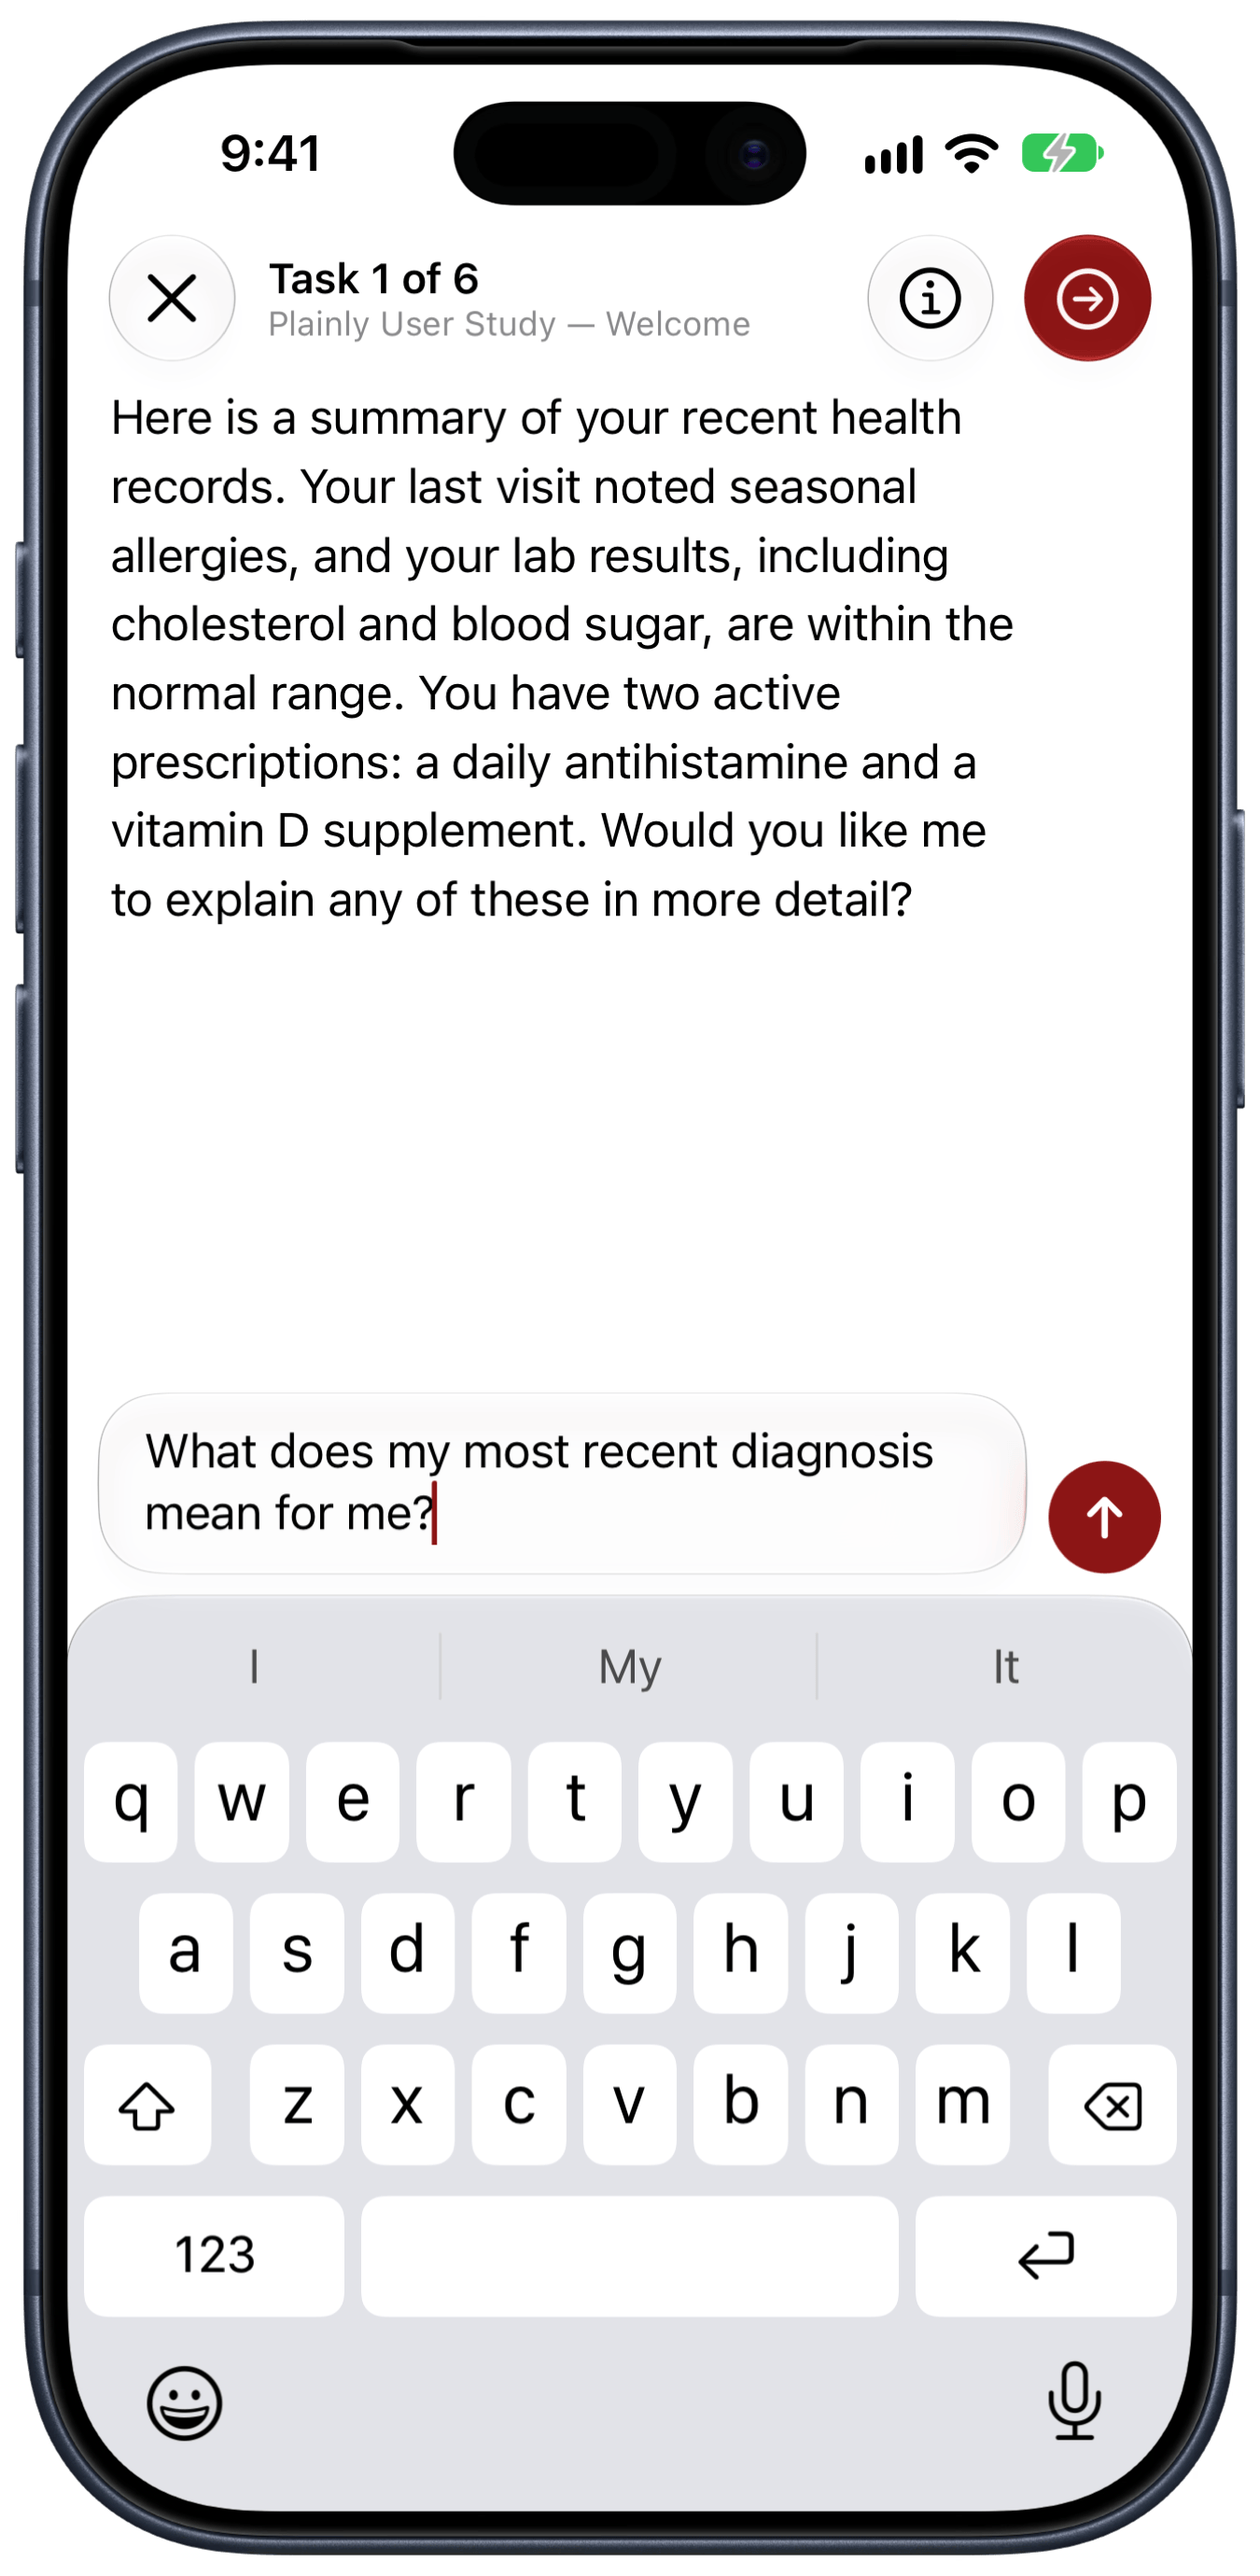
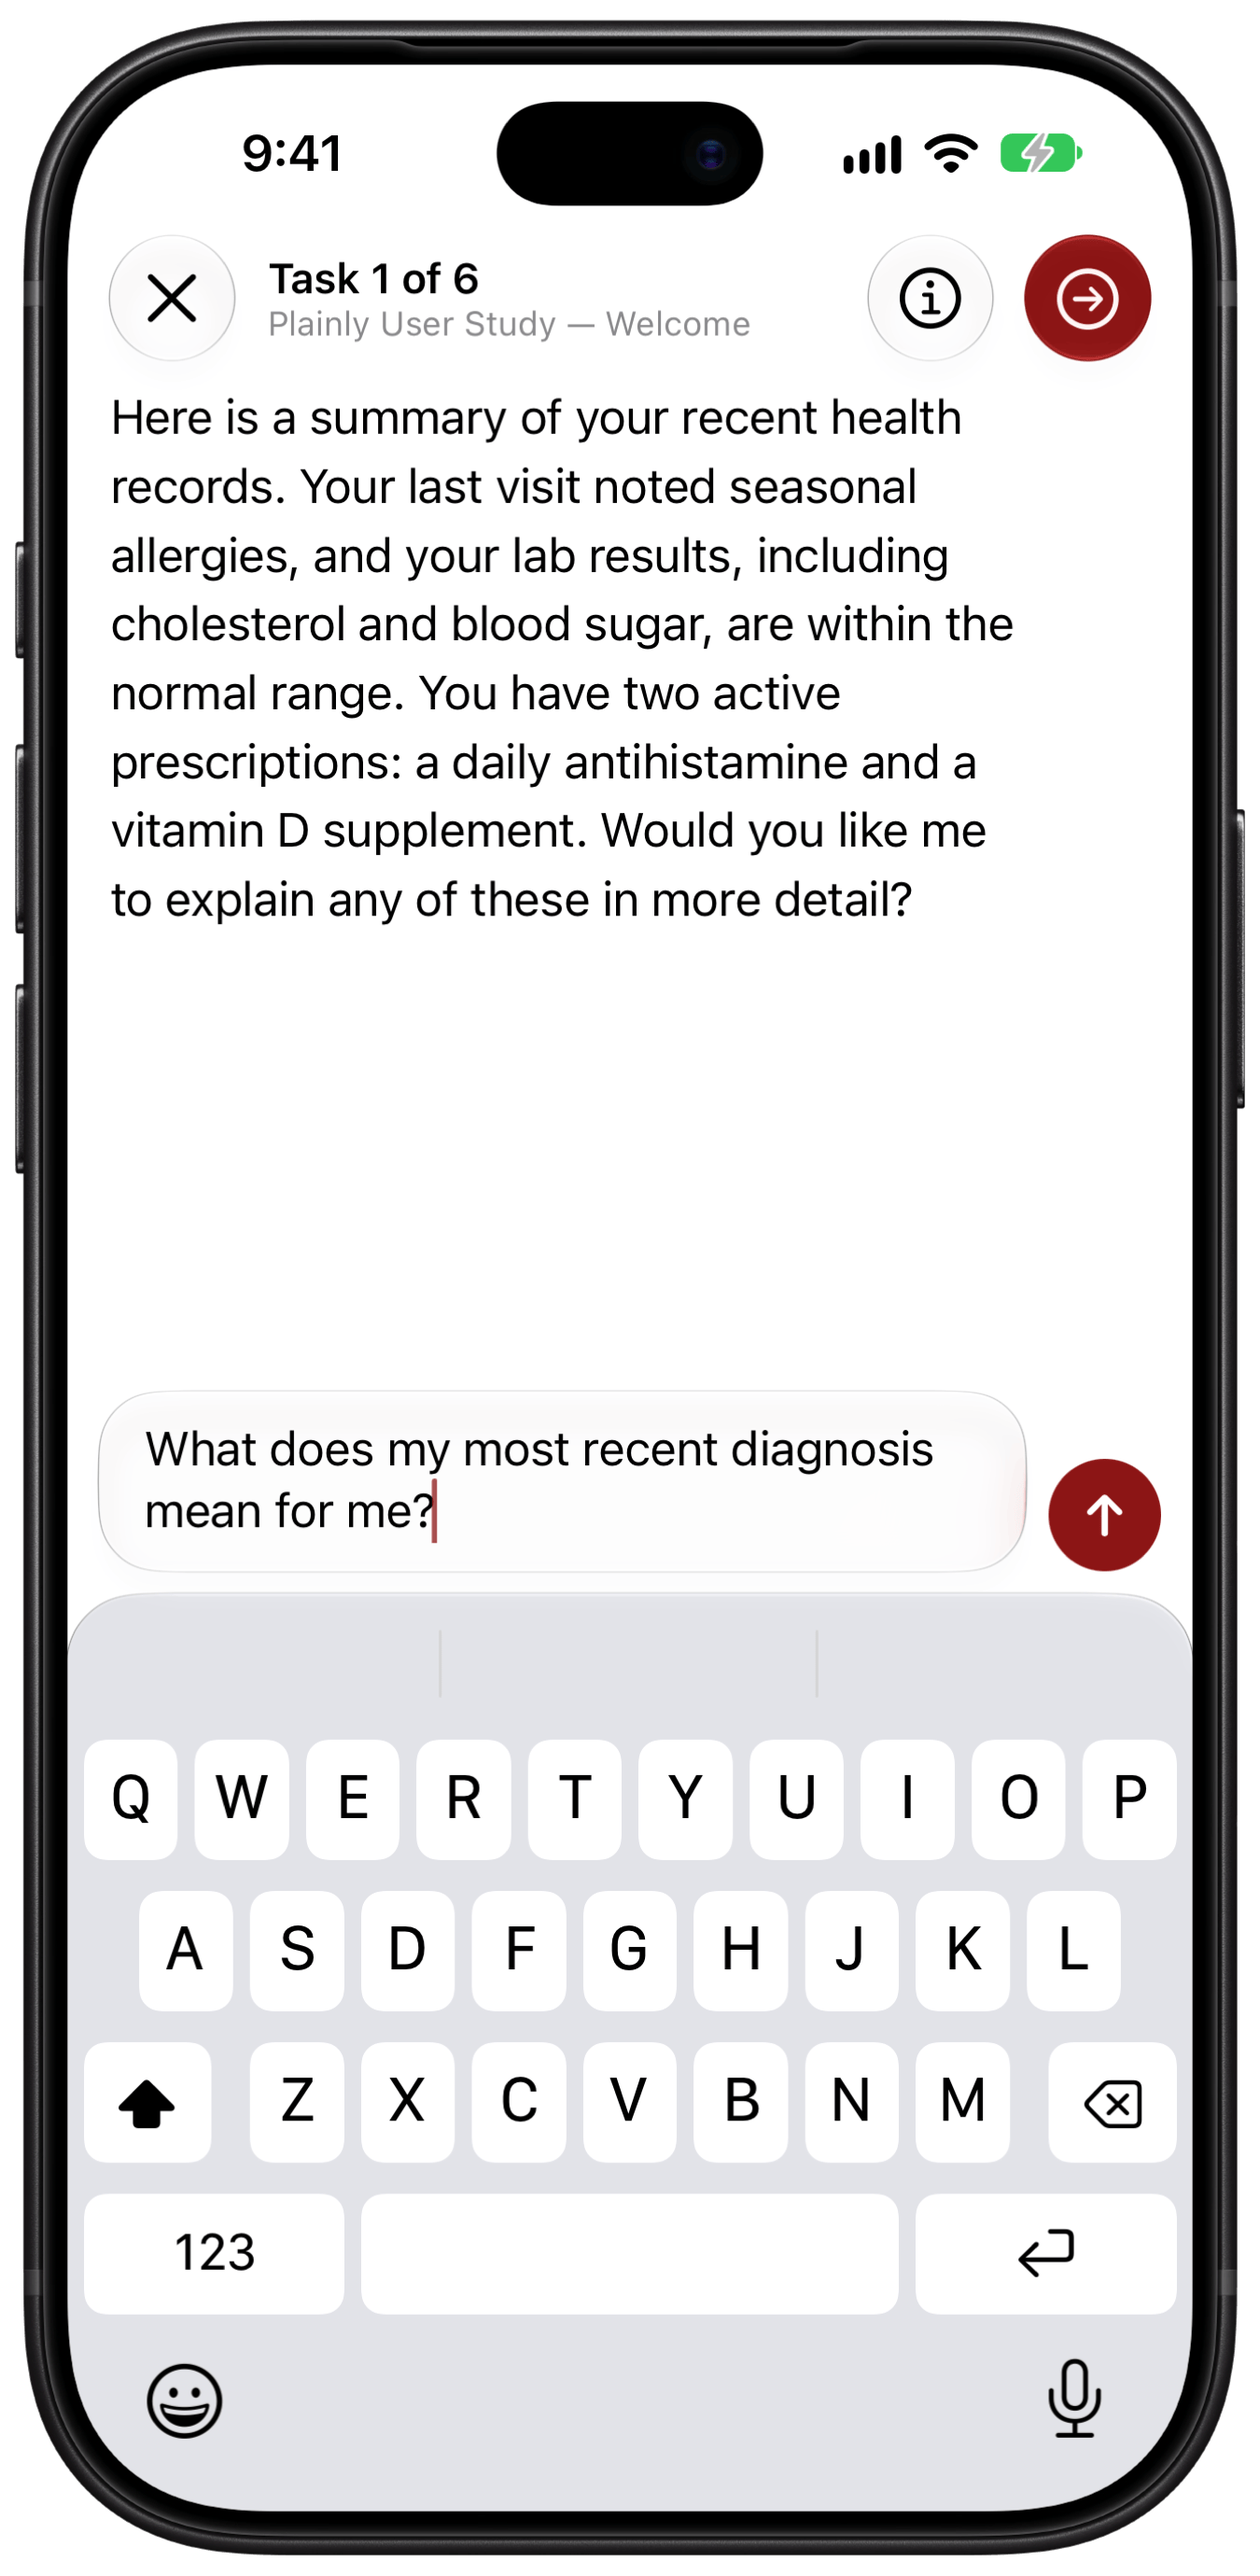
Run Tests and Screenshots on iPhone 18 Pro (#49)
### :recycle: Current situation & Problem
The shared build workflows test on an iPhone 18 Pro with the latest
stable Xcode, but the Firebase end-to-end lane and both screenshot sets
still used the iPhone 17 generation. Moving them keeps tests and
pictures on the device the app is checked on, and gives the pictures one
current device frame.

### :gear: Release Notes
- The Firebase end-to-end lane runs on an iPhone 18 Pro.
- App Store screenshots come from an iPhone 18 Pro Max and an iPad Pro
13-inch (M5), at the same sizes as before.
- README screenshots come from an iPhone 18 Pro. The script no longer
takes `--device` and refuses a reused simulator of another type.
- The README walk waits for the opening summary before the instructions
picture, which otherwise could show the chat still loading.
- `PlainlyShared` uses Swift tools version 6.3, the newest that every CI
toolchain reads.

### :books: Documentation
README and App Store screenshots are regenerated.

### :white_check_mark: Testing
Xcode 27.2, iOS 27.2: screenshots regenerated with both lanes from this
branch and checked in light and dark appearance. App tests pass on an
iPhone 18 Pro.

### Code of Conduct & Contributing Guidelines
By creating and submitting this pull request, you agree to follow our
[Code of
Conduct](https://github.com/SchmiedmayerLab/.github/blob/main/CODE_OF_CONDUCT.md)
and [Contributing
Guidelines](https://github.com/SchmiedmayerLab/.github/blob/main/CONTRIBUTING.md):
[…]

diff --git a/PlainlyUITests/ScreenshotWalk.swift b/PlainlyUITests/ScreenshotWalk.swift
@@ -94,16 +94,17 @@ enum ScreenshotWalk {
         XCTAssertTrue(startSession.waitForExistence(timeout: 10))
         startSession.tap()
         XCTAssertTrue(app.staticTexts["Welcome"].waitForExistence(timeout: 30))
+        // The summary loads behind the instructions, and the picture shows it there.
+        let summary = ProcessInfo.processInfo.environment["PLAINLY_MOCK_CHAT_RESPONSE"] ?? ""
+        XCTAssertFalse(summary.isEmpty, "PLAINLY_MOCK_CHAT_RESPONSE names the summary the emulator answers with.")
+        let response = app.descendants(matching: .any).matching(NSPredicate(format: "label == %@", summary)).firstMatch
+        XCTAssertTrue(response.waitForExistence(timeout: 30))
         snapshot("04_Instructions")
 
         // The chat's own close button sits above the sheet's; the sheet's is the lower one.
         let closeButtons = app.buttons.matching(identifier: "Close").allElementsBoundByIndex
         let sheetClose = try XCTUnwrap(closeButtons.max { $0.frame.minY < $1.frame.minY })
         sheetClose.tap()
-        let summary = ProcessInfo.processInfo.environment["PLAINLY_MOCK_CHAT_RESPONSE"] ?? ""
-        XCTAssertFalse(summary.isEmpty, "PLAINLY_MOCK_CHAT_RESPONSE names the summary the emulator answers with.")
-        let response = app.descendants(matching: .any).matching(NSPredicate(format: "label == %@", summary)).firstMatch
-        XCTAssertTrue(response.waitForExistence(timeout: 30))
         let messageField = app.textFields["Message Input Textfield"]
         XCTAssertTrue(messageField.waitForExistence(timeout: 5))
         try messageField.enter(value: "What does my most recent diagnosis mean for me?", options: [.disableKeyboardDismiss])

diff --git a/PlainlyShared/Package.swift b/PlainlyShared/Package.swift
@@ -1,4 +1,4 @@
-// swift-tools-version: 6.2
+// swift-tools-version: 6.3
 //
 // This source file is part of the Plainly iOS open-source project
 //
